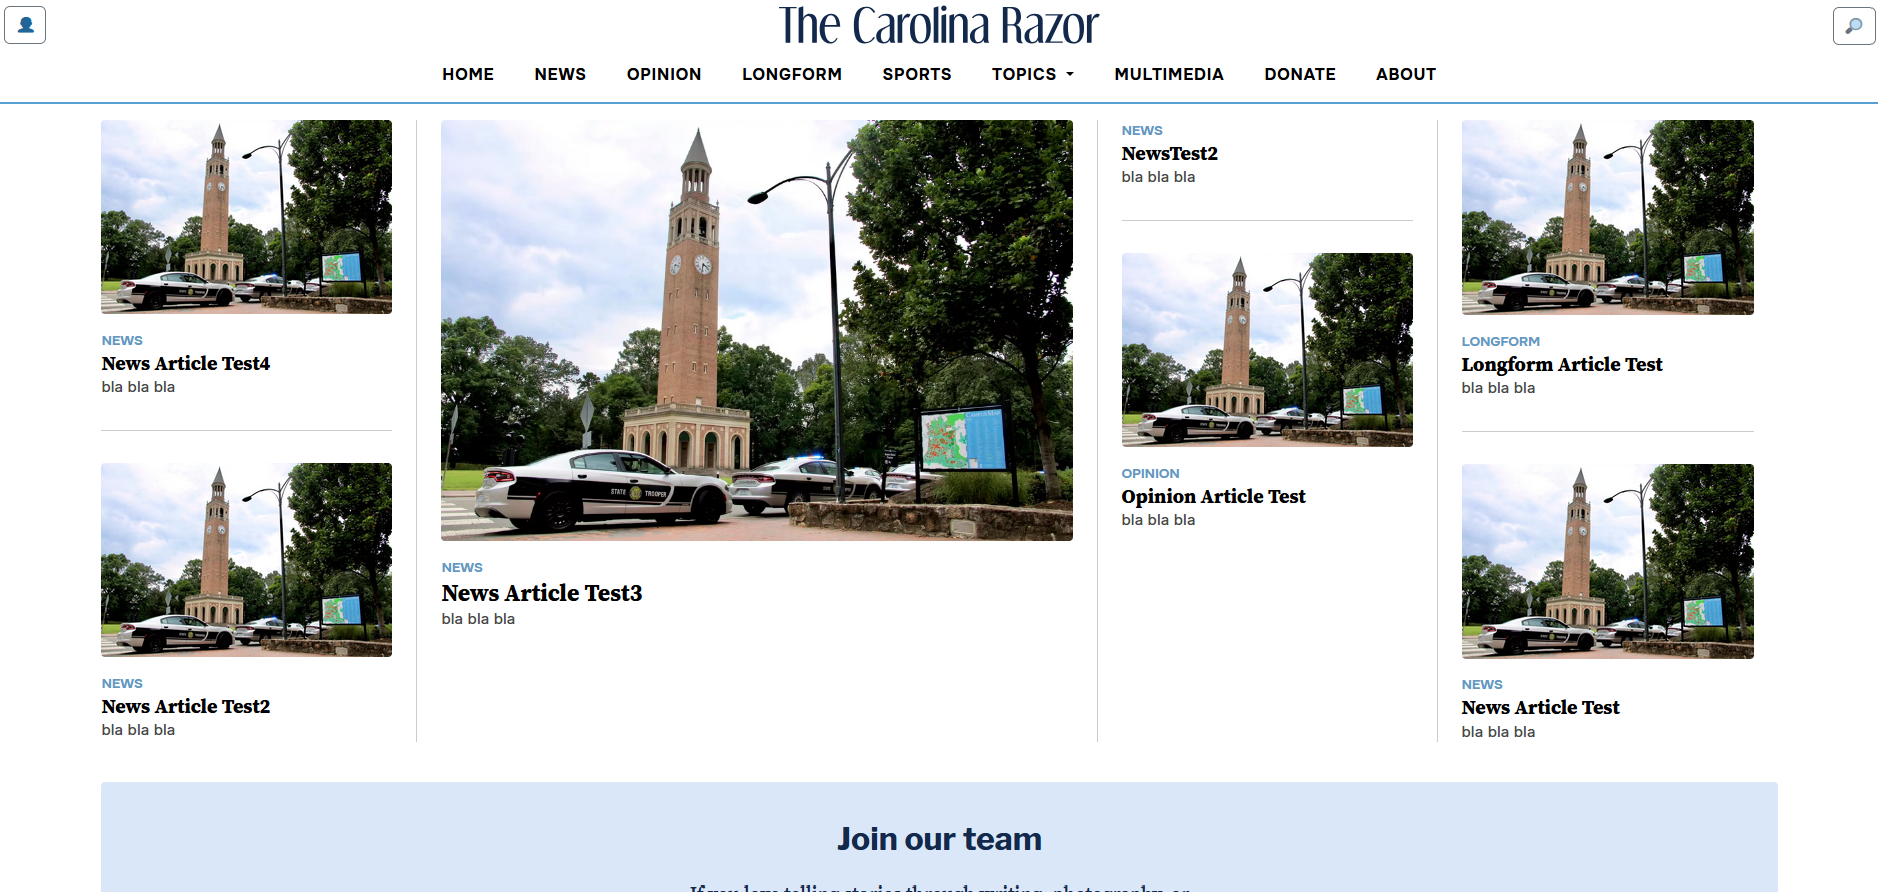
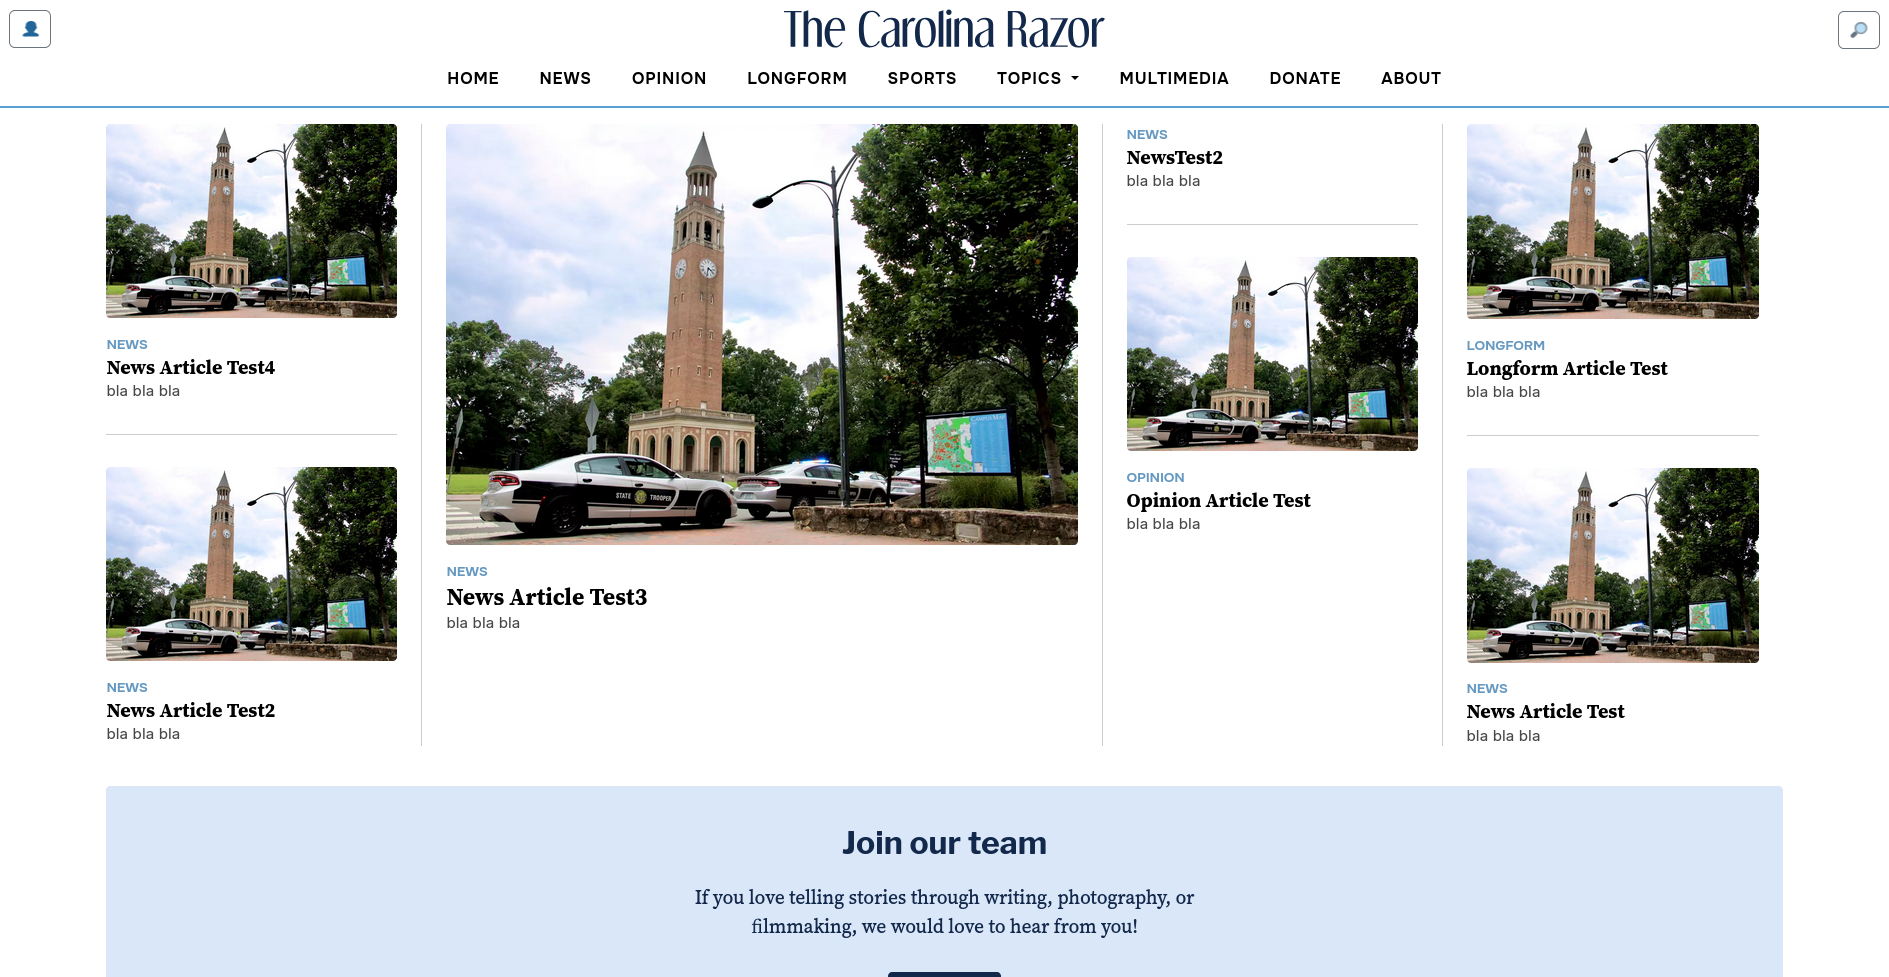
Gamerd

diff --git a/src/app/page.tsx b/src/app/page.tsx
@@ -44,21 +44,21 @@ export default function Home() {
                 className="border-t-2 py-20 flex flex-col lg:flex-row items-center justify-center w-[90%] mx-auto gap-6">
                 <ProjectBox
                     name="Where the Heel - HackNC 2024"
-                    image="/wheretheheel.png"
+                    image="/wheretheheel_small_compressed.png"
                     description="Where the Heel was a fun game inspired by GeoGuessr. Each round, you are random images from around campus, and your goal is to pinpoint where it was taken the best you can. Built for the HackNC competition at UNC in 2024 by Vikram Krishnakumar, Jason Armbruster, Colin Volpe, and Owen Ingram."
                     alt="Where the Heel webpage"
                     github="https://github.com/Awesomeness7/HackNC-24"
                 />
                 <ProjectBox
                     name="Chamaquest - Hack_NCState 2025"
-                    image="/chamaquest.png"
+                    image="/chamaquest_small.png"
                     description="ChamaQuest was a project built for the Hack_NCState hackathon in 2025 by Vikram Krishnakumar, Anna Lynch, Colin Volpe, and May Yamanaka. The prototype aims to be a way to connect Rotating Savings and Credit Associations (ROSCAs) in developing countries with banks in order to provide institutional security, while keeping the social aspect many ROSCAs provide."
                     alt="Chamaquest Hackathon Project Page"
                     github="https://github.com/hinuiiik/chamaquest"
                 />
                 <ProjectBox
                     name="The Carolina Razor"
-                    image="/carolinarazor.png"
+                    image="/carolinarazor_small.png"
                     description="The Carolina Razor was a concept newspaper for UNC aimed at providing left-wing opinions in a digestible format. The website was created by Vikram Krishnakumar and Alex Kreidler."
                     alt="Carolina Razor Webpage"
                     github="https://github.com/CarolinaRazor/website"
